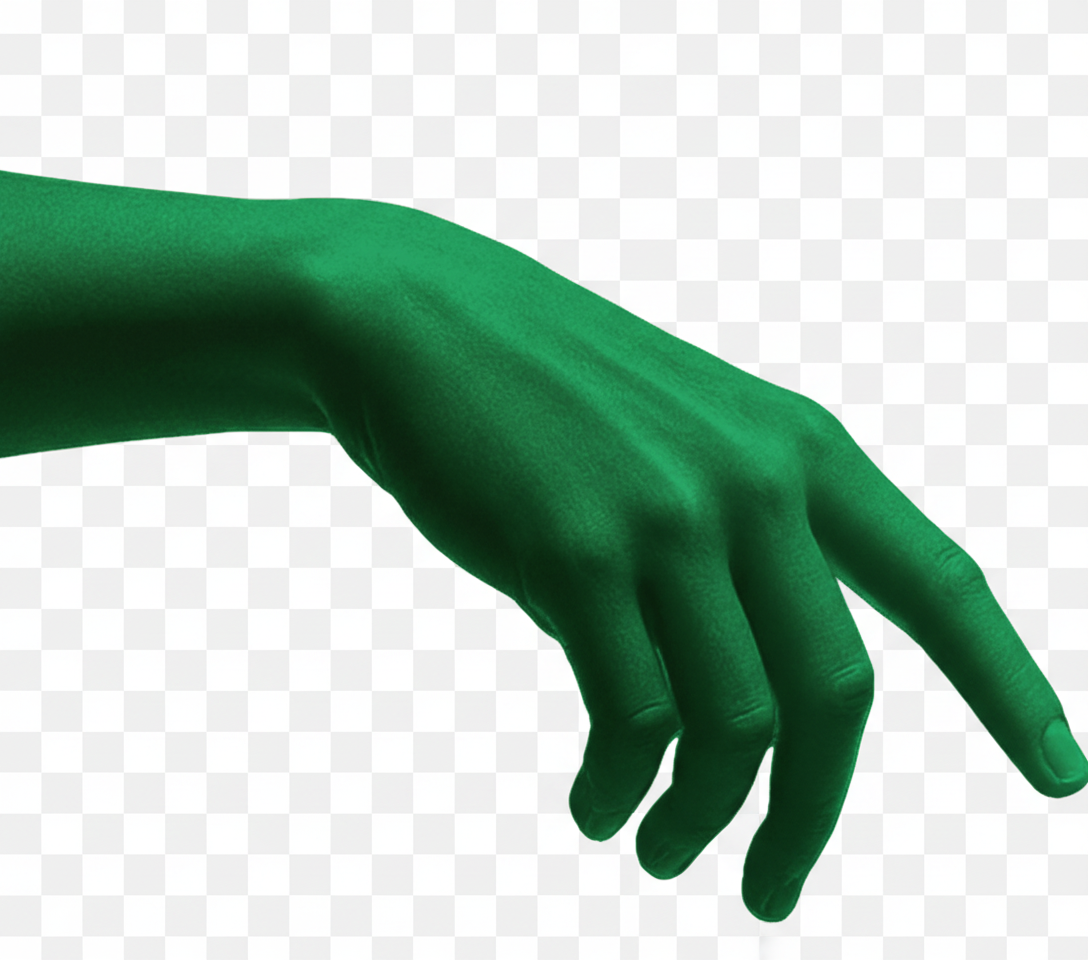
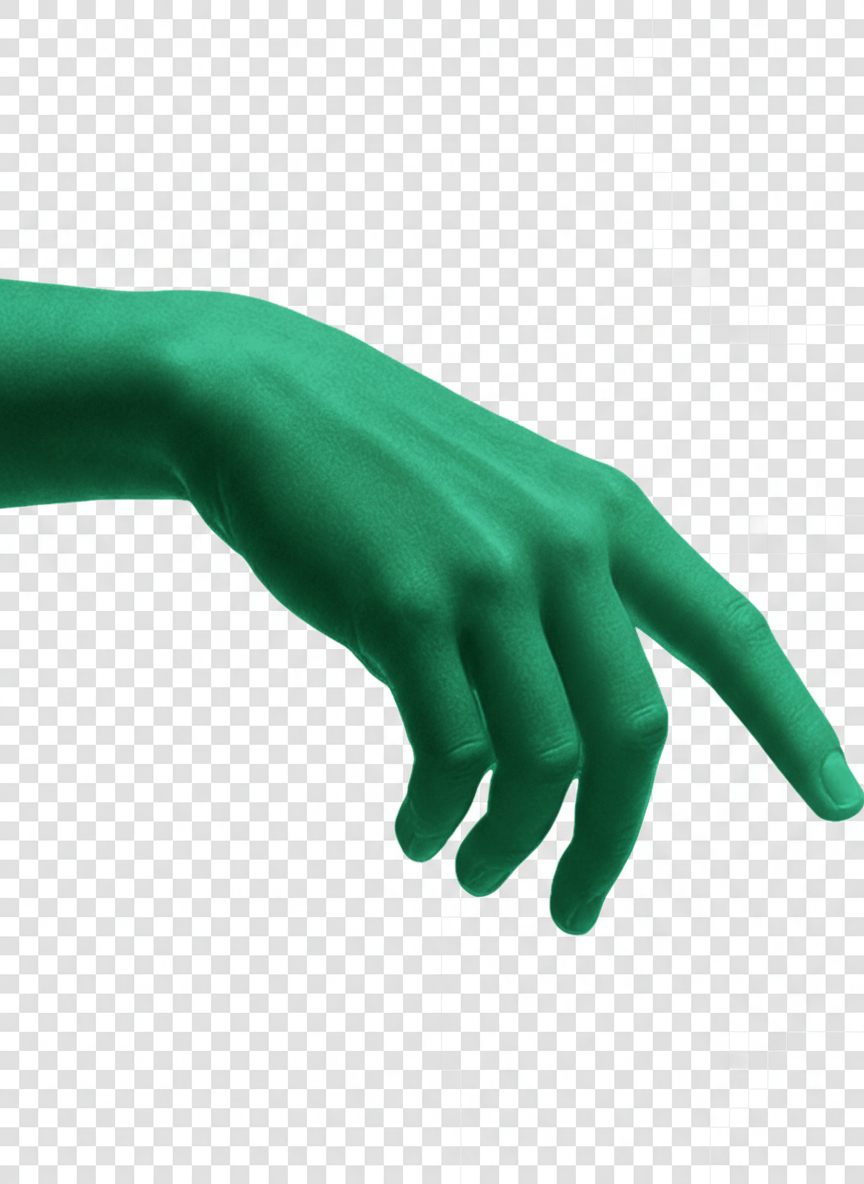
Changes

diff --git a/src/hooks/useTransparentPng.ts b/src/hooks/useTransparentPng.ts
@@ -1,0 +1,128 @@
+import { useEffect, useMemo, useState } from "react";
+
+type Options = {
+  /**
+   * Pixels above this brightness (0-255) are treated as background and made transparent.
+   * Default targets common white/very-light checkerboard squares.
+   */
+  bgBrightnessThreshold?: number;
+  /**
+   * Also treat near-neutral grays as background (checkerboard darker squares).
+   */
+  neutralGrayMaxDelta?: number;
+  /**
+   * Gray brightness range to consider background when pixel is near-neutral.
+   */
+  neutralGrayMin?: number;
+  neutralGrayMax?: number;
+};
+
+/**
+ * Removes baked-in checkerboard / light background pixels from an image by
+ * converting very bright and near-neutral gray pixels to alpha=0.
+ *
+ * NOTE: This is intentionally heuristic, tailored for the hand PNGs where the
+ * background is a light checkerboard.
+ */
+export function useTransparentPng(src: string, options: Options = {}) {
+  const {
+    bgBrightnessThreshold = 238,
+    neutralGrayMaxDelta = 10,
+    neutralGrayMin = 170,
+    neutralGrayMax = 245,
+  } = options;
+
+  const key = useMemo(
+    () =>
+      `${src}::${bgBrightnessThreshold}::${neutralGrayMaxDelta}::${neutralGrayMin}::${neutralGrayMax}`,
+    [
+      src,
+      bgBrightnessThreshold,
+      neutralGrayMaxDelta,
+      neutralGrayMin,
+      neutralGrayMax,
+    ]
+  );
+
+  const [processedSrc, setProcessedSrc] = useState<string>(src);
+
+  useEffect(() => {
+    let cancelled = false;
+    let objectUrl: string | null = null;
+
+    const img = new Image();
+    // local assets are same-origin; keep this for safety if the bundler serves with CORS
+    img.crossOrigin = "anonymous";
+    img.decoding = "async";
+    img.src = src;
+
+    img.onload = async () => {
+      if (cancelled) return;
+
+      const w = img.naturalWidth || img.width;
+      const h = img.naturalHeight || img.height;
+      if (!w || !h) return;
+
+      const canvas = document.createElement("canvas");
+      canvas.width = w;
+      canvas.height = h;
+      const ctx = canvas.getContext("2d", { willReadFrequently: true });
+      if (!ctx) return;
+
+      ctx.clearRect(0, 0, w, h);
+      ctx.drawImage(img, 0, 0);
+
+      const imageData = ctx.getImageData(0, 0, w, h);
+      const data = imageData.data;
+
+      for (let i = 0; i < data.length; i += 4) {
+        const r = data[i];
+        const g = data[i + 1];
+        const b = data[i + 2];
+
+        // brightness approx
+        const brightness = (r + g + b) / 3;
+
+        // near-neutral gray check
+        const max = Math.max(r, g, b);
+        const min = Math.min(r, g, b);
+        const nearNeutral = max - min <= neutralGrayMaxDelta;
+
+        // 1) wipe bright pixels (white squares)
+        // 2) wipe near-neutral grays in a typical checker range
+        const isBackground =
+          brightness >= bgBrightnessThreshold ||
+          (nearNeutral && brightness >= neutralGrayMin && brightness <= neutralGrayMax);
+
+        if (isBackground) {
+          data[i + 3] = 0; // alpha
+        }
+      }
+
+      ctx.putImageData(imageData, 0, 0);
+
+      canvas.toBlob(
+        (blob) => {
+          if (cancelled) return;
+          if (!blob) return;
+          objectUrl = URL.createObjectURL(blob);
+          setProcessedSrc(objectUrl);
+        },
+        "image/png",
+        1
+      );
+    };
+
+    img.onerror = () => {
+      if (!cancelled) setProcessedSrc(src);
+    };
+
+    return () => {
+      cancelled = true;
+      if (objectUrl) URL.revokeObjectURL(objectUrl);
+    };
+    // key is the stable dependency that captures src + options
+  }, [key, src]);
+
+  return processedSrc;
+}

diff --git a/src/pages/LandingPage.tsx b/src/pages/LandingPage.tsx
@@ -3,6 +3,7 @@ import { useEffect, useRef } from "react";
 import { ArrowUpRight } from "lucide-react";
 import handLeftGreen from "@/assets/hand-left-green.png";
 import handRightGreen from "@/assets/hand-right-green.png";
+import { useTransparentPng } from "@/hooks/useTransparentPng";
 
 // Reveal animation hook
 function useRevealAnimation() {
@@ -78,6 +79,9 @@ function Header() {
 
 // Hero Section - Exact structure from HTML
 function HeroSection() {
+  const handLeftClean = useTransparentPng(handLeftGreen);
+  const handRightClean = useTransparentPng(handRightGreen);
+
   return (
     <section className="relative min-h-screen flex items-center justify-center overflow-hidden">
       {/* Atmospheric Fog Background */}
@@ -90,7 +94,7 @@ function HeroSection() {
       {/* Floating Hand Image - Left */}
       <div className="absolute left-[-5%] top-[10%] w-[30%] max-w-[350px] animate-float-left pointer-events-none hidden lg:block">
         <img
-          src={handLeftGreen}
+          src={handLeftClean}
           alt=""
           className="w-full h-auto drop-shadow-2xl"
           style={{ 
@@ -102,7 +106,7 @@ function HeroSection() {
       {/* Floating Hand Image - Right */}
       <div className="absolute right-[-5%] bottom-[5%] w-[30%] max-w-[350px] animate-float-right pointer-events-none hidden lg:block">
         <img
-          src={handRightGreen}
+          src={handRightClean}
           alt=""
           className="w-full h-auto drop-shadow-2xl"
           style={{ 
